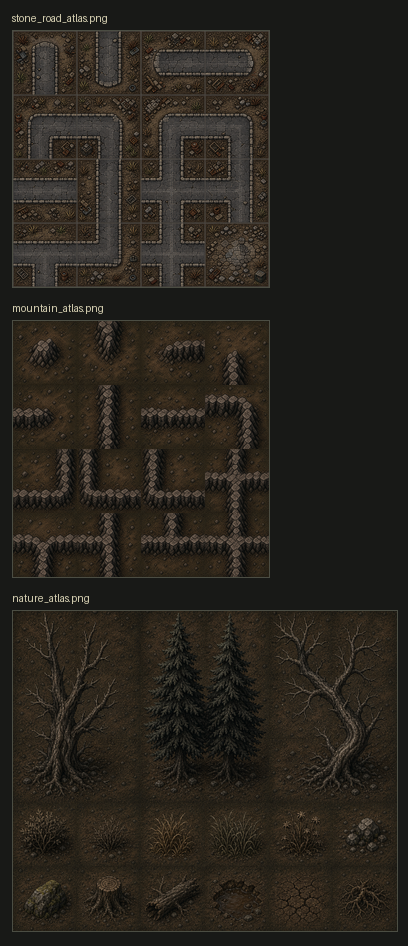
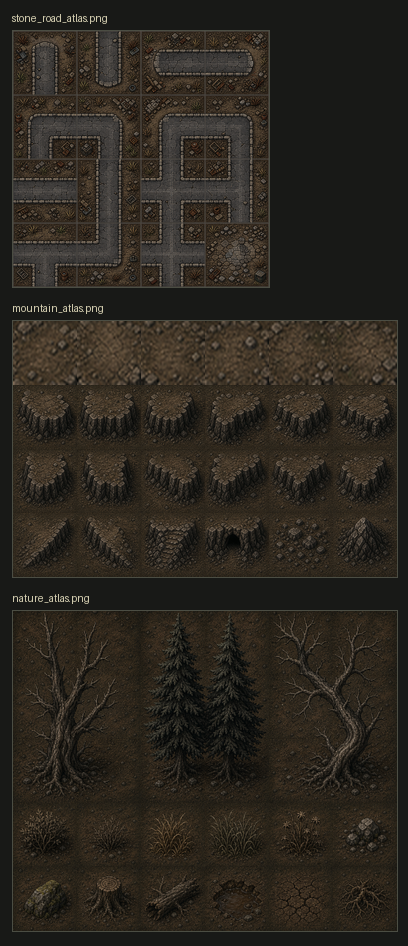
Replace wall-like mountain atlas with height terrain

Changed region(s): [[0.0294, 0.3372, 1.0, 0.6131]]

diff --git a/tools/art_pipeline/generate_nature_environment_assets.py b/tools/art_pipeline/generate_nature_environment_assets.py
@@ -41,27 +41,35 @@ ATLASES = {
         ],
     },
     "mountain_atlas": {
-        "source": RAW / "imagegen_mountain_connectable_atlas_source.png",
+        "source": RAW / "imagegen_mountain_height_atlas_source.png",
         "output": TILES / "mountain_atlas.png",
-        "columns": 4,
+        "columns": 6,
         "rows": 4,
         "tiles": [
-            "mountain_isolated",
-            "mountain_end_north",
-            "mountain_end_east",
-            "mountain_end_south",
-            "mountain_end_west",
-            "mountain_straight_ns",
-            "mountain_straight_ew",
-            "mountain_corner_ne",
-            "mountain_corner_es",
-            "mountain_corner_sw",
-            "mountain_corner_wn",
-            "mountain_t_nes",
-            "mountain_t_esw",
-            "mountain_t_swn",
-            "mountain_t_wne",
-            "mountain_cross",
+            "plateau_flat_a",
+            "plateau_flat_b",
+            "plateau_cracked",
+            "plateau_stony",
+            "plateau_scree",
+            "plateau_broken",
+            "front_cliff_left",
+            "front_cliff_mid",
+            "front_cliff_right",
+            "front_cliff_outer_left",
+            "front_cliff_outer_right",
+            "front_cliff_broken",
+            "side_cliff_west",
+            "side_cliff_east",
+            "corner_northwest",
+            "corner_northeast",
+            "corner_southwest",
+            "corner_southeast",
+            "diagonal_slope_left",
+            "diagonal_slope_right",
+            "rubble_ramp",
+            "cave_mouth",
+            "boulder_scree_field",
+            "isolated_mountain_mound",
         ],
     },
     "nature_atlas": {
@@ -173,6 +181,22 @@ def extract_atlas(source_path: Path, output_path: Path, columns: int, rows: int)
     atlas.save(output_path)
 
 
+def build_height_mountain_atlas(source_path: Path, output_path: Path, columns: int, rows: int) -> None:
+    cells = extract_cells(source_path, columns, rows)
+    atlas = Image.new("RGBA", (columns * TILE, rows * TILE), (0, 0, 0, 0))
+    for index, cell in enumerate(cells):
+        column = index % columns
+        row = index // columns
+        tile = cell
+        if row == 0:
+            # The image generator gives the plateau material and cliff face in one cell.
+            # For TileMap painting, the fill row must be top-surface only; cliffs live in rows 1-3.
+            tile = cell.crop((12, 8, 52, 40)).resize((TILE, TILE), Image.Resampling.LANCZOS)
+        atlas.alpha_composite(tile.convert("RGBA"), (column * TILE, row * TILE))
+    output_path.parent.mkdir(parents=True, exist_ok=True)
+    atlas.save(output_path)
+
+
 def build_preview(outputs: list[Path]) -> Path:
     images = [(path.name, Image.open(path).convert("RGBA")) for path in outputs]
     width = max(image.width for _, image in images) + 24
@@ -191,50 +215,30 @@ def build_preview(outputs: list[Path]) -> Path:
     return path
 
 
-def build_mountain_connectivity_preview(mountain_atlas_path: Path) -> Path:
+def build_mountain_height_preview(mountain_atlas_path: Path) -> Path:
     atlas = Image.open(mountain_atlas_path).convert("RGBA")
-    tile_names = {
-        "iso": 0,
-        "n": 1,
-        "e": 2,
-        "s": 3,
-        "w": 4,
-        "ns": 5,
-        "ew": 6,
-        "ne": 7,
-        "es": 8,
-        "sw": 9,
-        "wn": 10,
-        "nes": 11,
-        "esw": 12,
-        "swn": 13,
-        "wne": 14,
-        "cross": 15,
-    }
     layout = [
-        ["iso", "n", "n", "iso", "iso", "iso"],
-        ["e", "cross", "cross", "ew", "es", "iso"],
-        ["iso", "ns", "iso", "iso", "ns", "iso"],
-        ["e", "wne", "ew", "ew", "swn", "w"],
-        ["iso", "s", "iso", "iso", "s", "iso"],
+        [0, 1, 2, 3, 4, 5],
+        [6, 7, 7, 7, 8, 11],
+        [12, 14, 15, 16, 17, 13],
+        [18, 19, 20, 21, 22, 23],
     ]
     preview = Image.new("RGBA", (len(layout[0]) * TILE, len(layout) * TILE), (30, 29, 24, 255))
     for row_index, row in enumerate(layout):
-        for column_index, tile_name in enumerate(row):
-            tile_index = tile_names[tile_name]
+        for column_index, tile_index in enumerate(row):
             tile = atlas.crop((
-                (tile_index % 4) * TILE,
-                (tile_index // 4) * TILE,
-                (tile_index % 4 + 1) * TILE,
-                (tile_index // 4 + 1) * TILE,
+                (tile_index % 6) * TILE,
+                (tile_index // 6) * TILE,
+                (tile_index % 6 + 1) * TILE,
+                (tile_index // 6 + 1) * TILE,
             ))
             preview.alpha_composite(tile, (column_index * TILE, row_index * TILE))
-    path = RAW / "mountain_connectivity_preview.png"
+    path = RAW / "mountain_height_preview.png"
     preview.save(path)
     return path
 
 
-def update_manifest(preview: Path, mountain_connectivity_preview: Path) -> None:
+def update_manifest(preview: Path, mountain_height_preview: Path) -> None:
     if not MANIFEST.exists():
         return
     data = json.loads(MANIFEST.read_text(encoding="utf-8"))
@@ -253,7 +257,8 @@ def update_manifest(preview: Path, mountain_connectivity_preview: Path) -> None:
                 "style": "imagegen_target_reference",
             }
     data.setdefault("previews", {})["nature_environment"] = res(preview)
-    data.setdefault("previews", {})["mountain_connectivity"] = res(mountain_connectivity_preview)
+    data.setdefault("previews", {})["mountain_height"] = res(mountain_height_preview)
+    data.setdefault("previews", {}).pop("mountain_connectivity", None)
     MANIFEST.write_text(json.dumps(data, ensure_ascii=False, indent=2) + "\n", encoding="utf-8")
 
 
@@ -263,10 +268,13 @@ def main() -> None:
         source = atlas["source"]
         if not source.exists():
             raise FileNotFoundError(f"Missing imagegen source for {atlas_id}: {source}")
-        extract_atlas(source, atlas["output"], atlas["columns"], atlas["rows"])
+        if atlas_id == "mountain_atlas":
+            build_height_mountain_atlas(source, atlas["output"], atlas["columns"], atlas["rows"])
+        else:
+            extract_atlas(source, atlas["output"], atlas["columns"], atlas["rows"])
         outputs.append(atlas["output"])
     preview = build_preview(outputs)
-    mountain_preview = build_mountain_connectivity_preview(ATLASES["mountain_atlas"]["output"])
+    mountain_preview = build_mountain_height_preview(ATLASES["mountain_atlas"]["output"])
     update_manifest(preview, mountain_preview)
     print("Extracted imagegen nature atlases: " + ", ".join(path.name for path in outputs))
 

diff --git a/CHANGELOG.md b/CHANGELOG.md
@@ -26,4 +26,4 @@
 - Added generated map objects, buildings, defense pieces, production facilities, wreckage, and city props as paintable TileSet sources, plus empty paint layers for manual scene editing.
 - Rewired `BaseHub` to use a single editor-created `TileMap` node with the shared complete TileSet and named internal layers for manual map painting.
 - Added a bunker/lab interior art kit with entrance, lab floor variants, wall panels, supercomputer, animated screen frames, bed, tables, locker, shelf, and chair assets.
-- Added image-generated natural environment atlas sheets for stone roads, connectable mountain terrain, large multi-tile trees, shrubs, flowers, rocks, and wasteland ground props, with TileSet atlas-source support.
+- Added image-generated natural environment atlas sheets for stone roads, height-readable mountain terrain, large multi-tile trees, shrubs, flowers, rocks, and wasteland ground props, with TileSet atlas-source support.